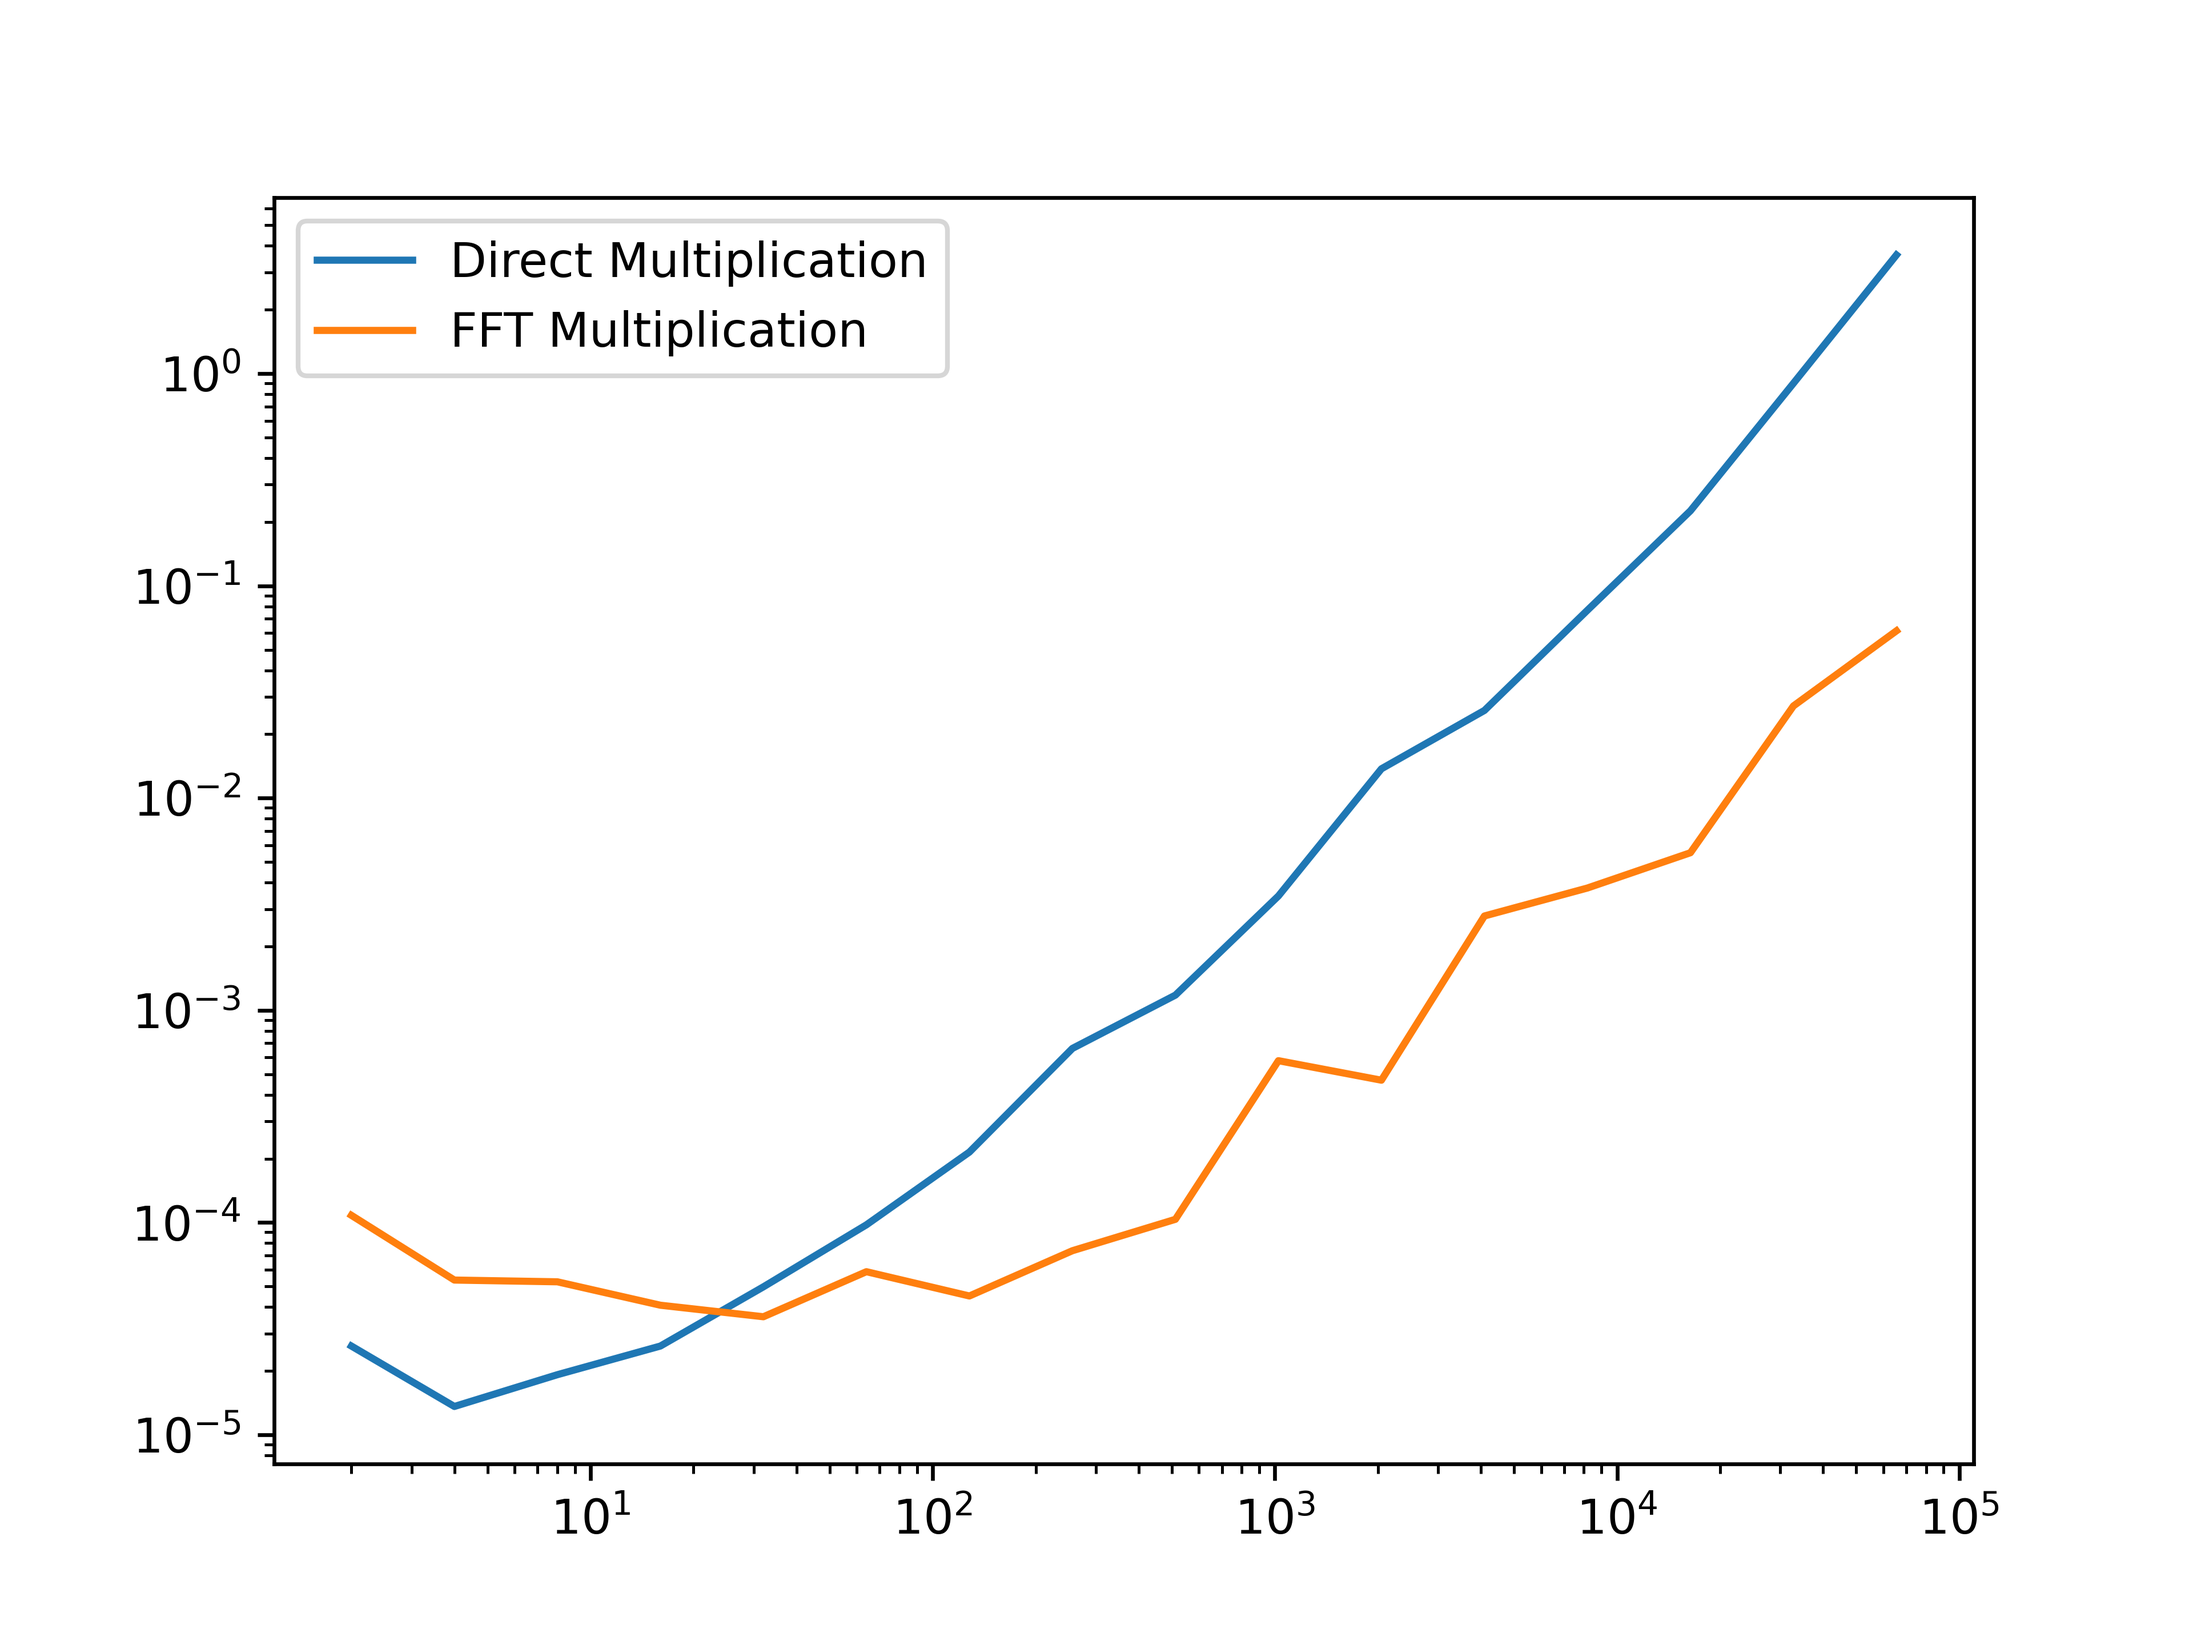
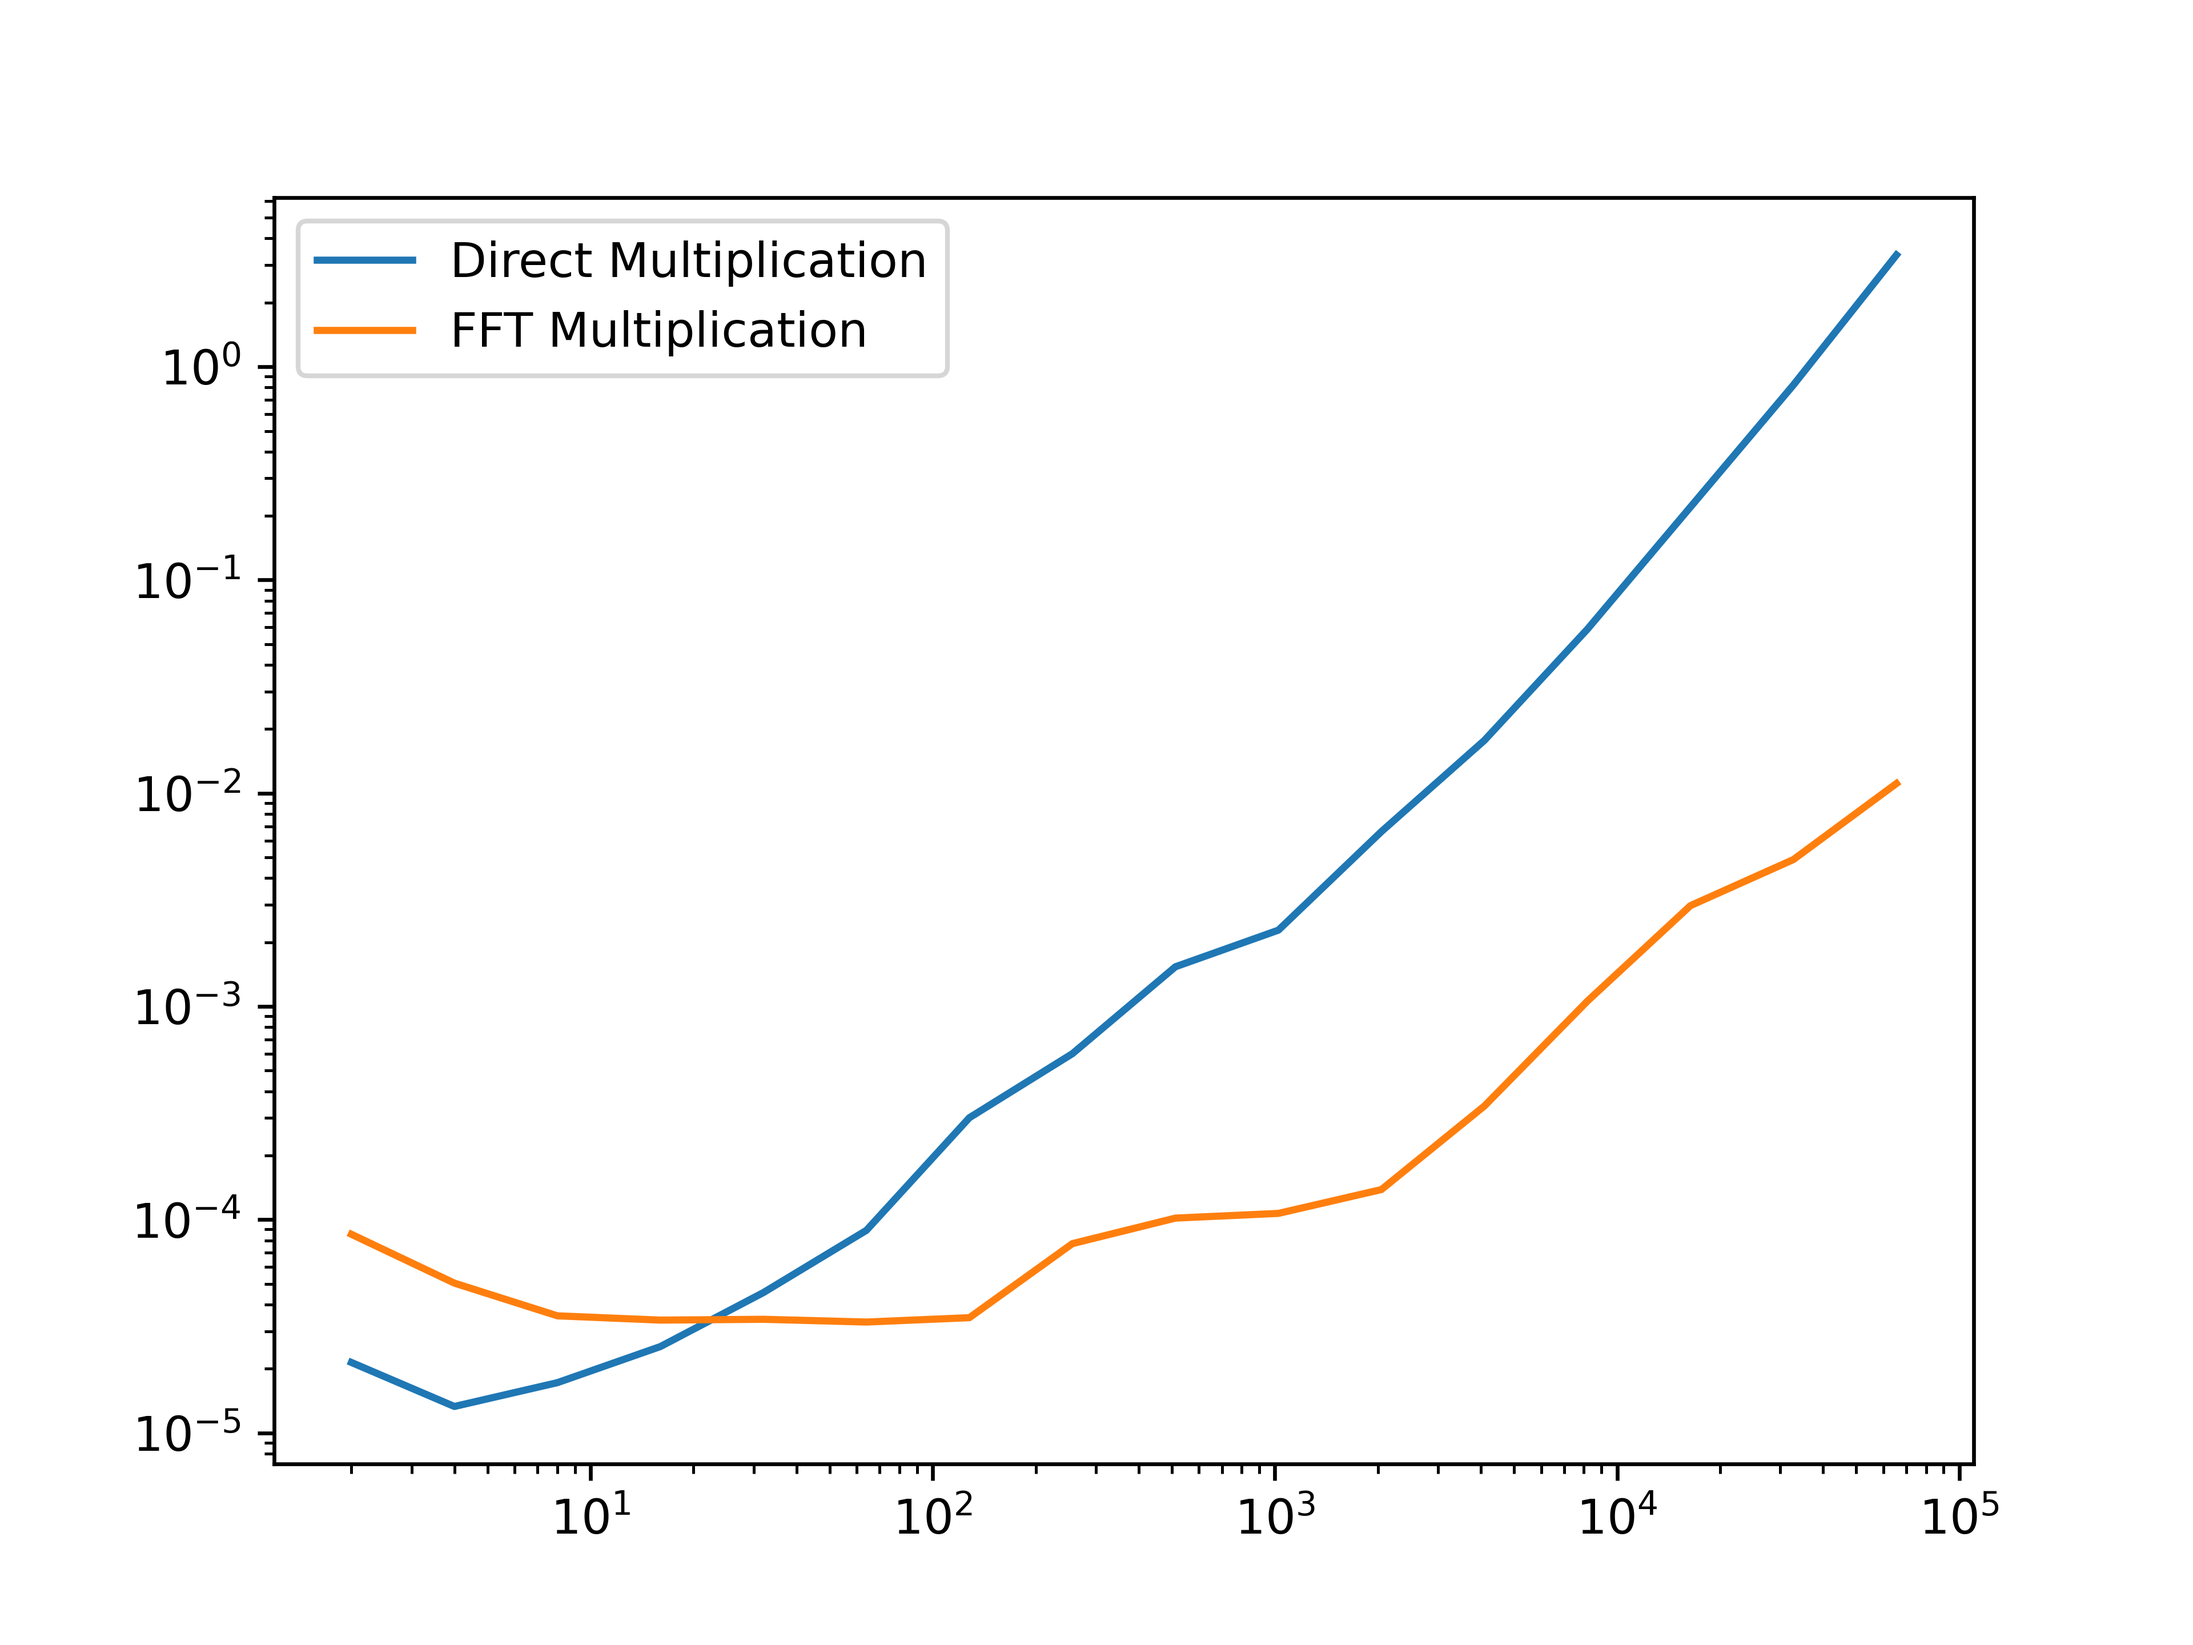
Pad to power of 2 to optimize polynomial multiplication FFT

diff --git a/Lab/Lab 6 polynomials.py b/Lab/Lab 6 polynomials.py
@@ -24,9 +24,9 @@ def direct_poly_mul(p, q):
 @timed_fn
 def fft_poly_mul(p, q):
     assert p.size == q.size
-    p = np.pad(p, (0, p.size - 1))
-    q = np.pad(q, (0, q.size - 1))
-    return np.fft.ifft(np.fft.fft(p) * np.fft.fft(q)).real
+    p = np.pad(p, (0, p.size))
+    q = np.pad(q, (0, q.size))
+    return np.fft.ifft(np.fft.fft(p) * np.fft.fft(q))[:-1].real
 
 POLY_FILE = Path("Lab 6 polynomials.npz")
 
